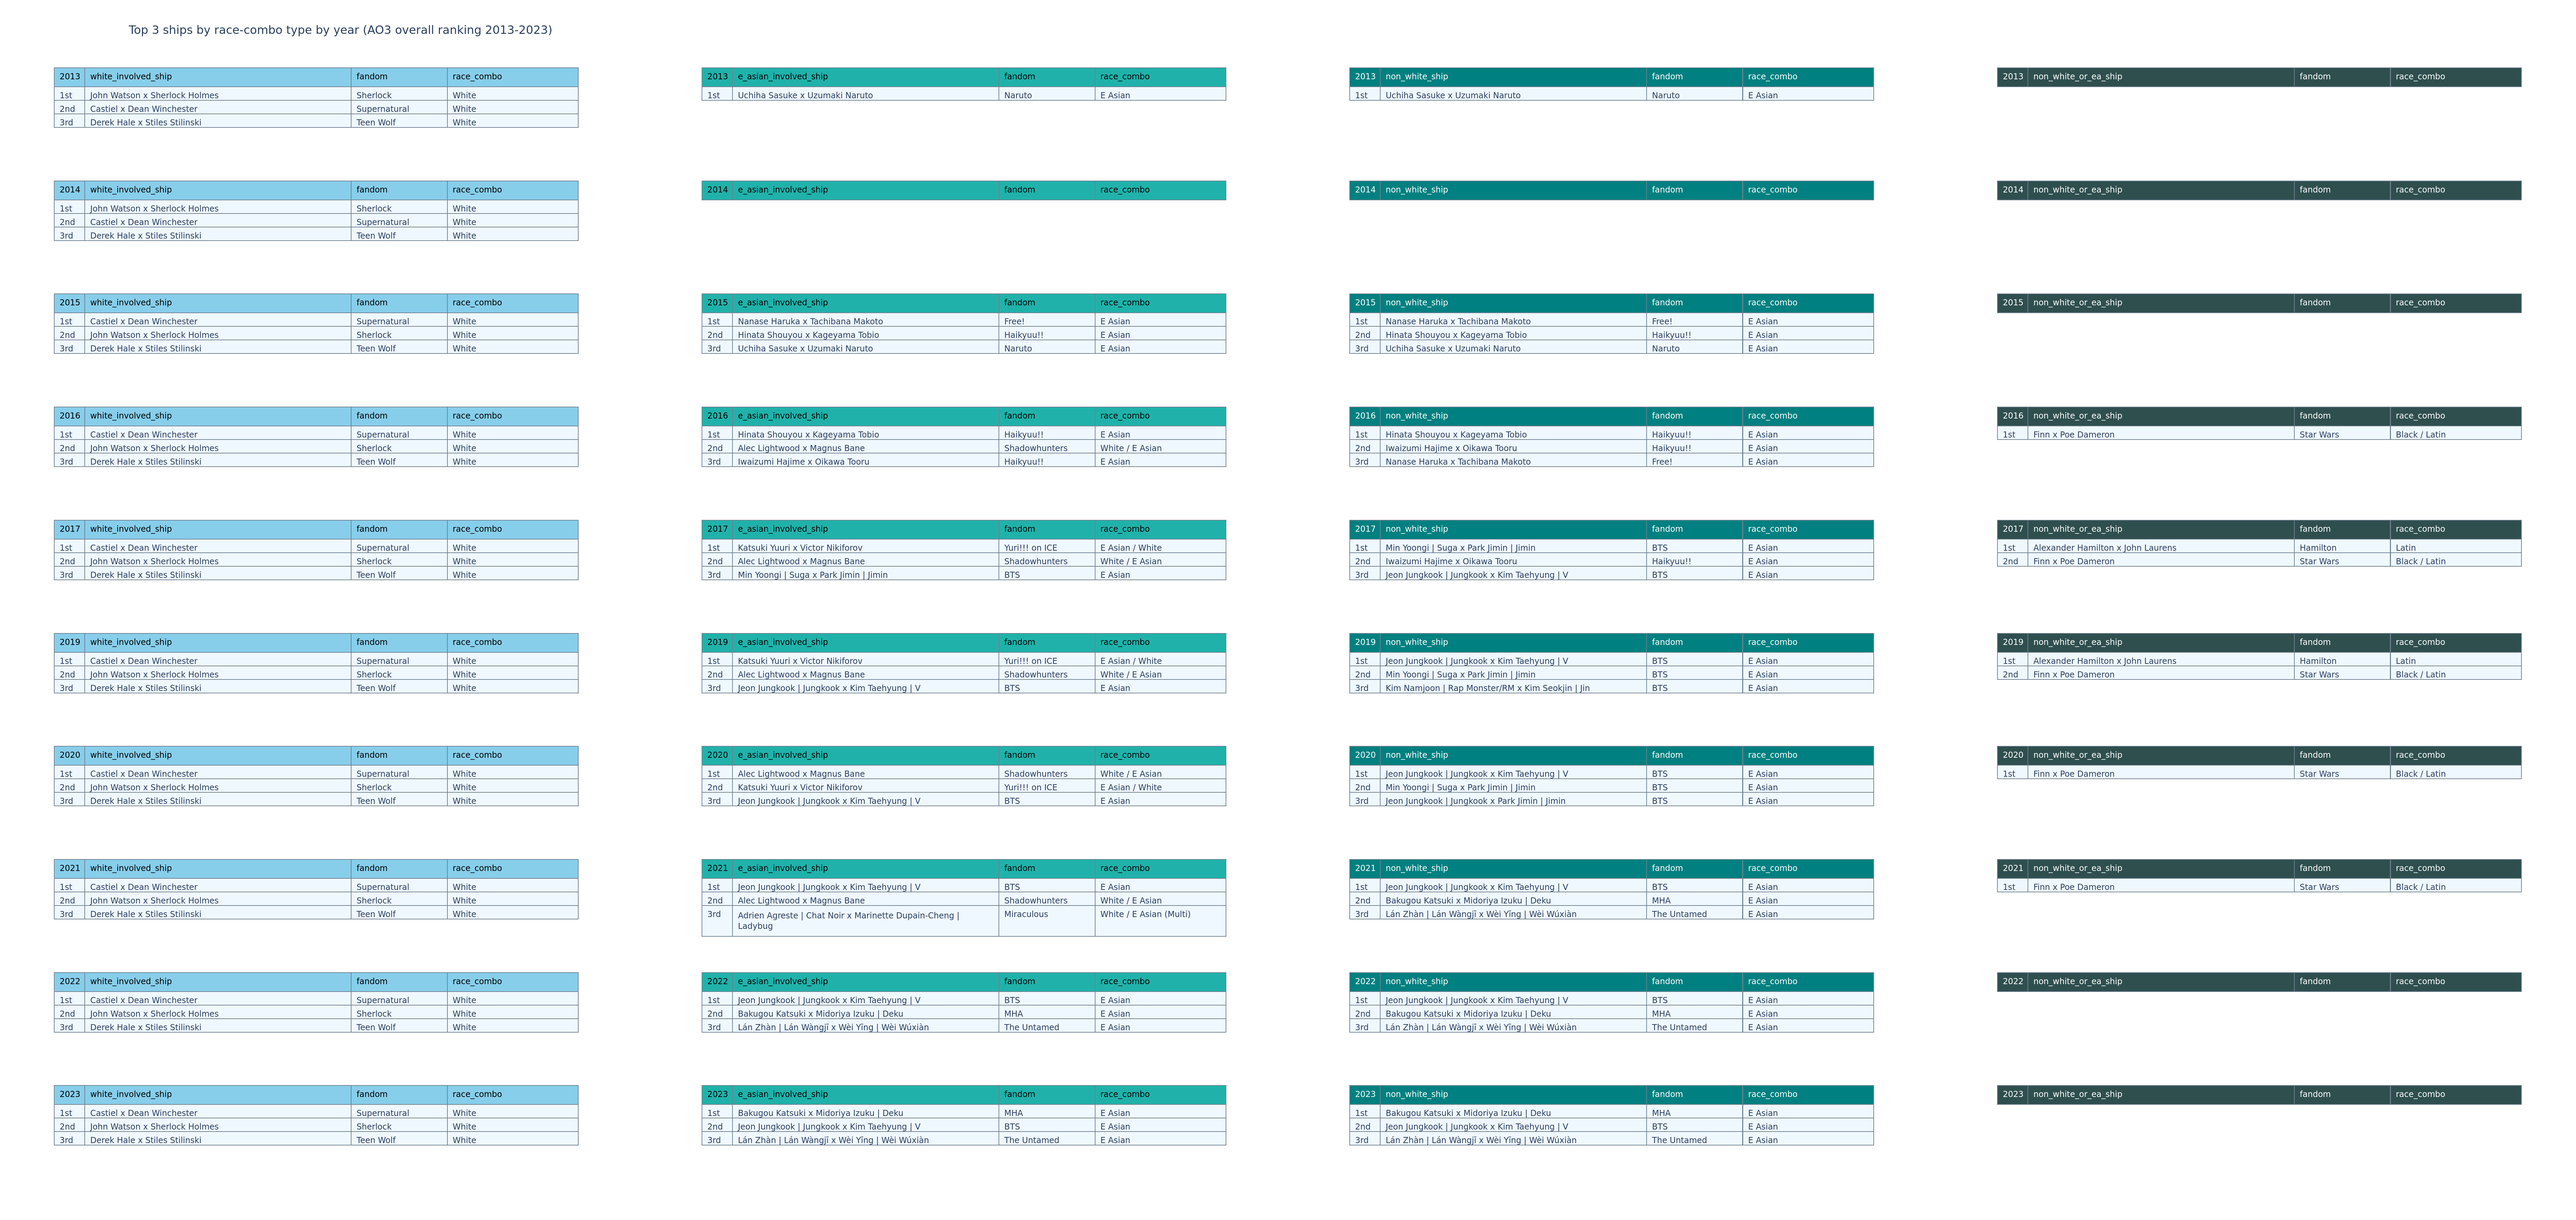
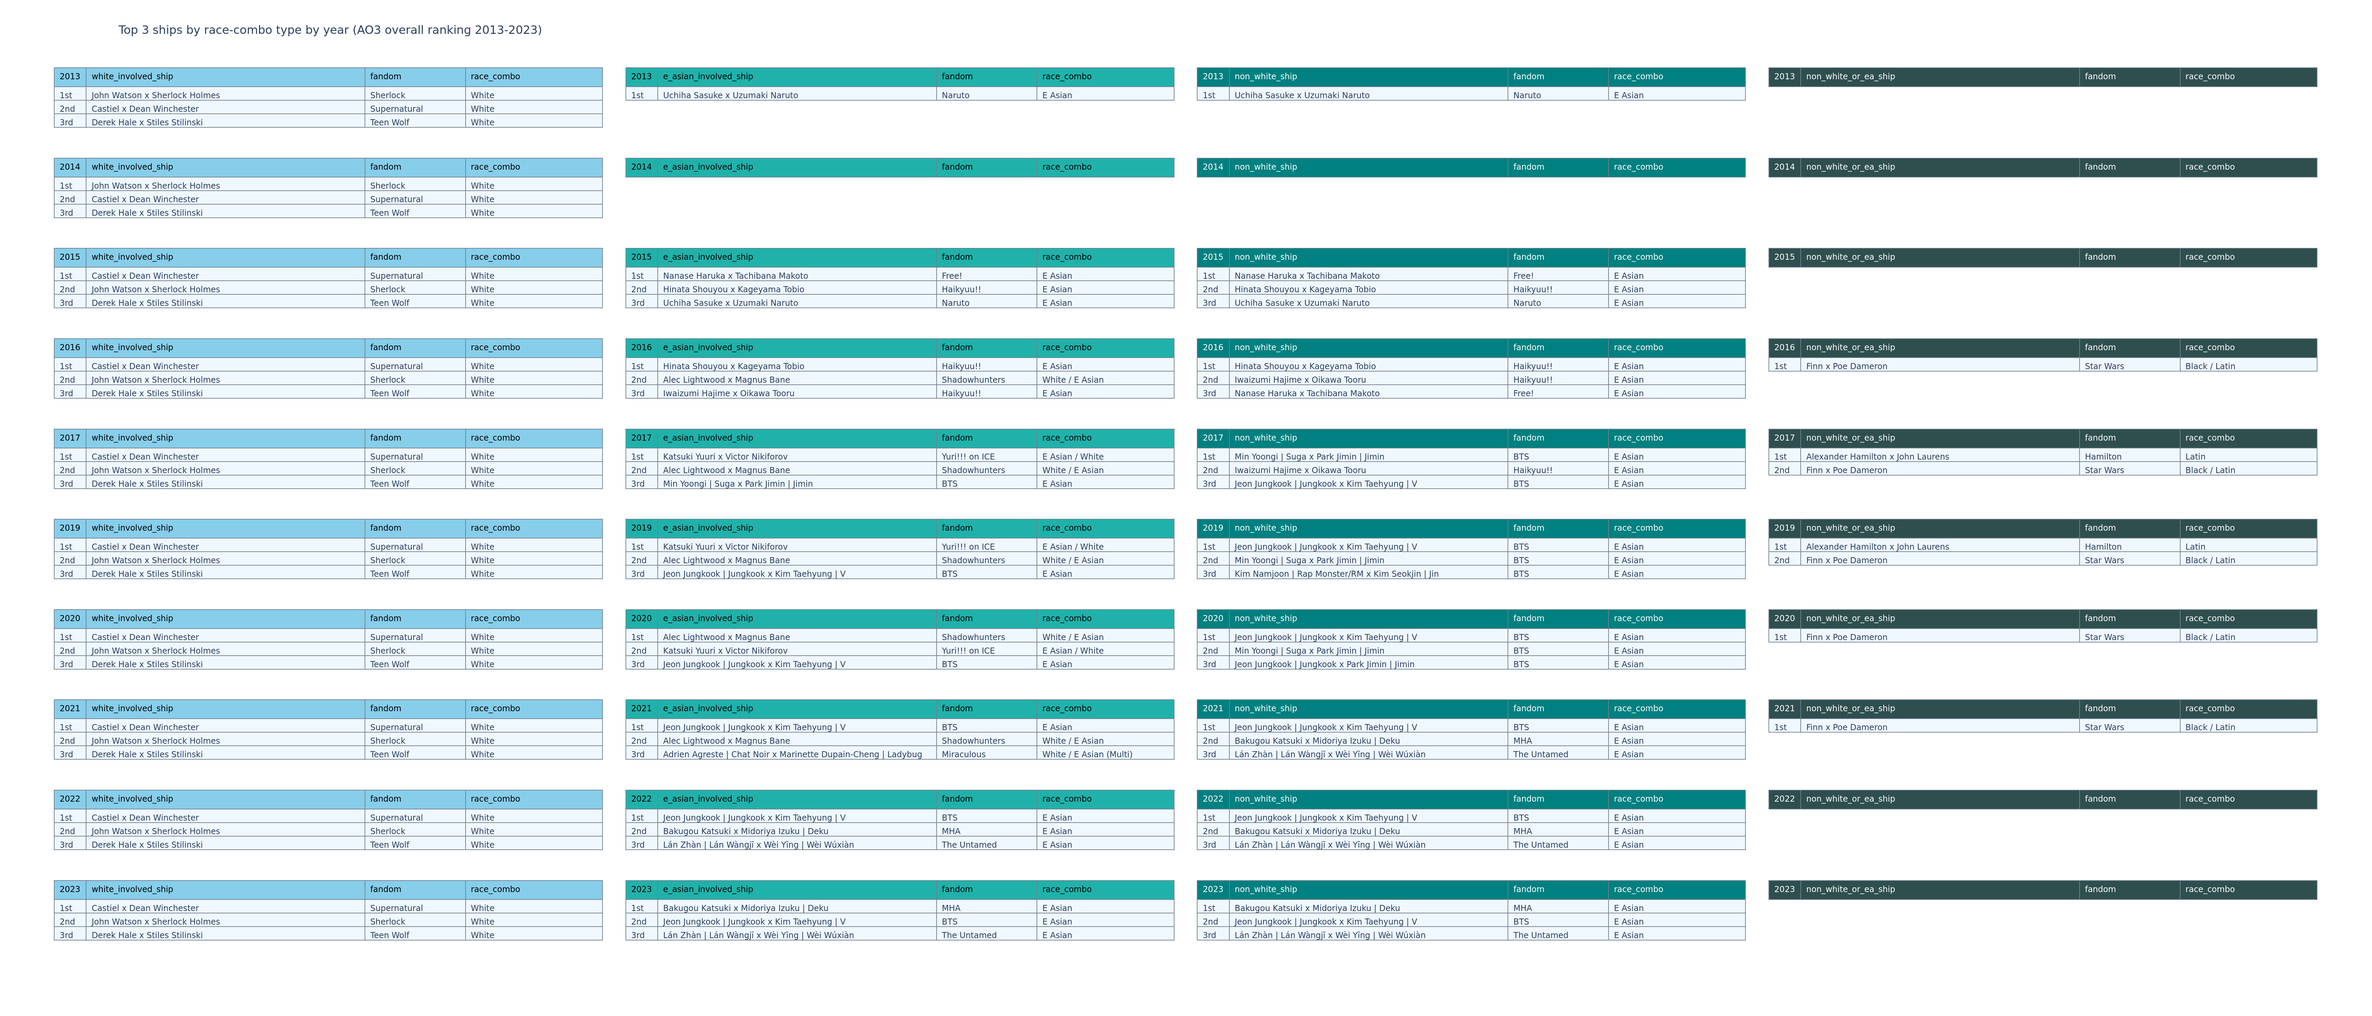
resize non white tables

Changed region(s): [[0.0, 0.0, 0.9966, 0.961]]

diff --git a/visualisation/ao3_overall_rankings_2013_2023/vis_overall_ranking_run_code.py b/visualisation/ao3_overall_rankings_2013_2023/vis_overall_ranking_run_code.py
@@ -374,11 +374,11 @@ non_white_count_fig.write_image(
 # top 3 ships for each category that year ✅
 overall_separated_dict = separate_out_non_white_ships_info(overall_prepped_dict)
 top_non_white = top_non_white_ships(overall_separated_dict)
-top_non_white_fig = visualise_column_tables(top_non_white, "overall")
+top_non_white_fig = visualise_column_tables(top_non_white, "non_white_ships", "overall")
 top_non_white_fig.write_image(
     "visualisation/ao3_overall_rankings_2013_2023/ao3_overall_rankings_charts/overall_racial_charts/overall_top_non_white_2013_2023.png", 
-    width=3800, 
-    height=1800, 
+    width=3500, 
+    height=1500, 
     scale=2
 )
 
